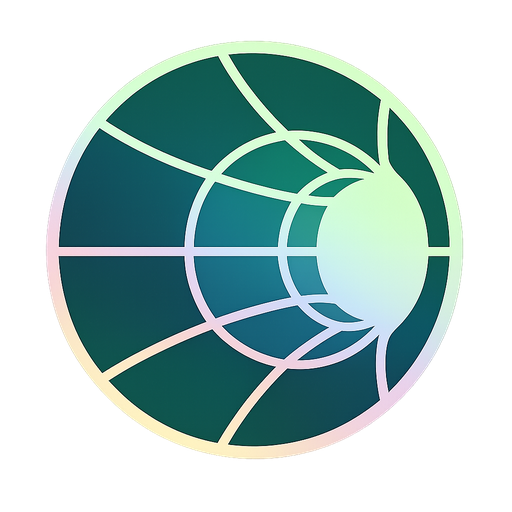
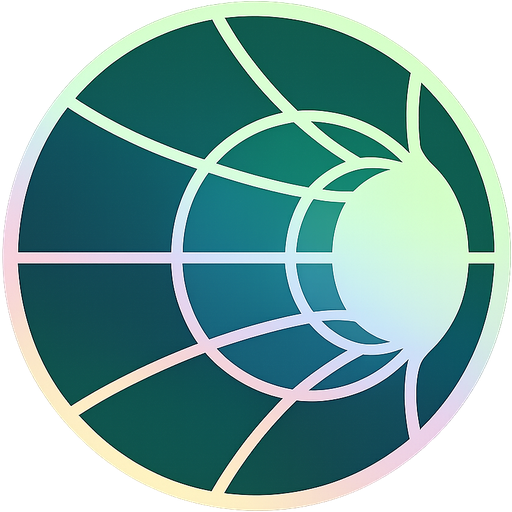
Enhance Dockerfile for cross-platform compatibility and update workflow descriptions
- Added TARGETPLATFORM argument to Dockerfile to ensure correct platform-specific installations of npm packages and docker-compose.
- Updated the desktop-release workflow description for clarity.
- Updated binary assets (hub.png, apple-touch-icon.png, favicon-96x96.png) in the frontend public directory.
- Added tests to verify Dockerfile changes enforce native installations on the specified TARGETPLATFORM.

diff --git a/scripts/__tests__/release-workflows.test.ts b/scripts/__tests__/release-workflows.test.ts
@@ -19,6 +19,7 @@ function readWorkflow(name: string) {
 
 const buildContainer = readWorkflow('build-container.yml');
 const desktopRelease = readWorkflow('desktop-release.yml');
+const dockerfile = fs.readFileSync(path.join(repoRoot, 'Dockerfile'), 'utf-8');
 
 const GATE_JOB = 'verify-anonymous-pull:';
 
@@ -152,6 +153,17 @@ describe('build-container.yml', () => {
     const gate = gateSource();
     expect(gate).toMatch(/-n\s+"\$\{VERSION\}"/);
     expect(gate).toContain('${IMAGE_REPO}:${VERSION}');
+  });
+});
+
+describe('Dockerfile runner stage', () => {
+  it('forces native npm and docker-compose installs onto TARGETPLATFORM', () => {
+    // arm64 CI runners cross-build the linux/amd64 manifest slot as
+    // linux/arm64->amd64; without RUN --platform the arch sanity check sees
+    // process.arch=arm64 while TARGETARCH=amd64 and the build fails.
+    const runnerSection = dockerfile.slice(dockerfile.indexOf('FROM runner_base AS runner'));
+    expect(runnerSection).toContain('RUN --platform=$TARGETPLATFORM');
+    expect(runnerSection).toMatch(/npm install[\s\S]*docker-compose for/);
   });
 });
 
